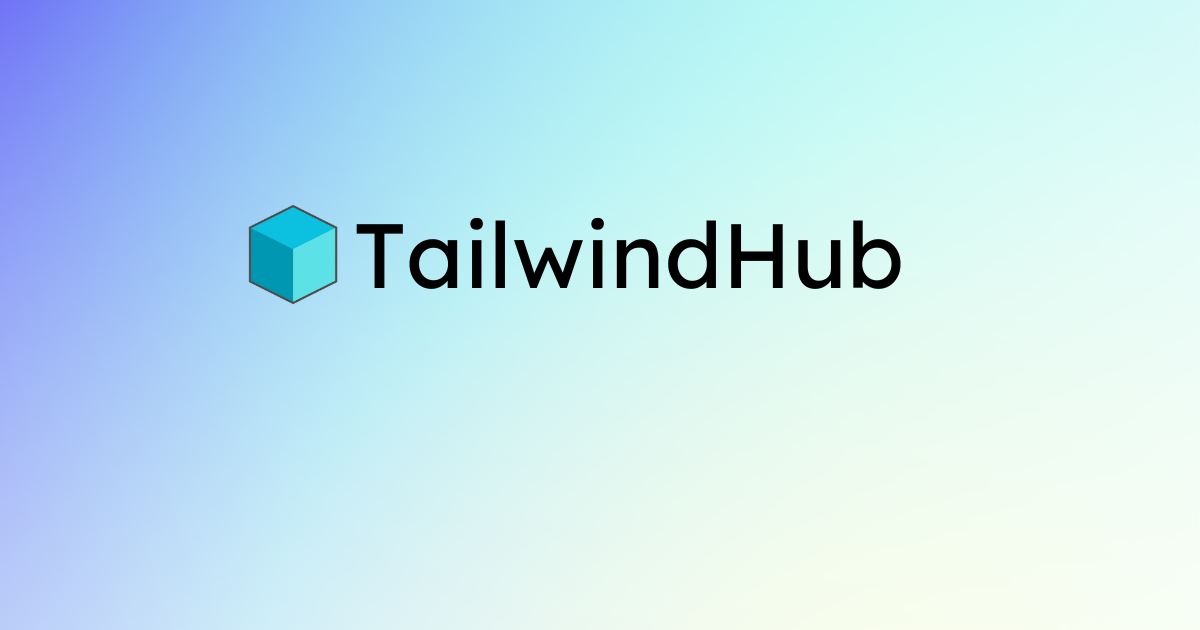
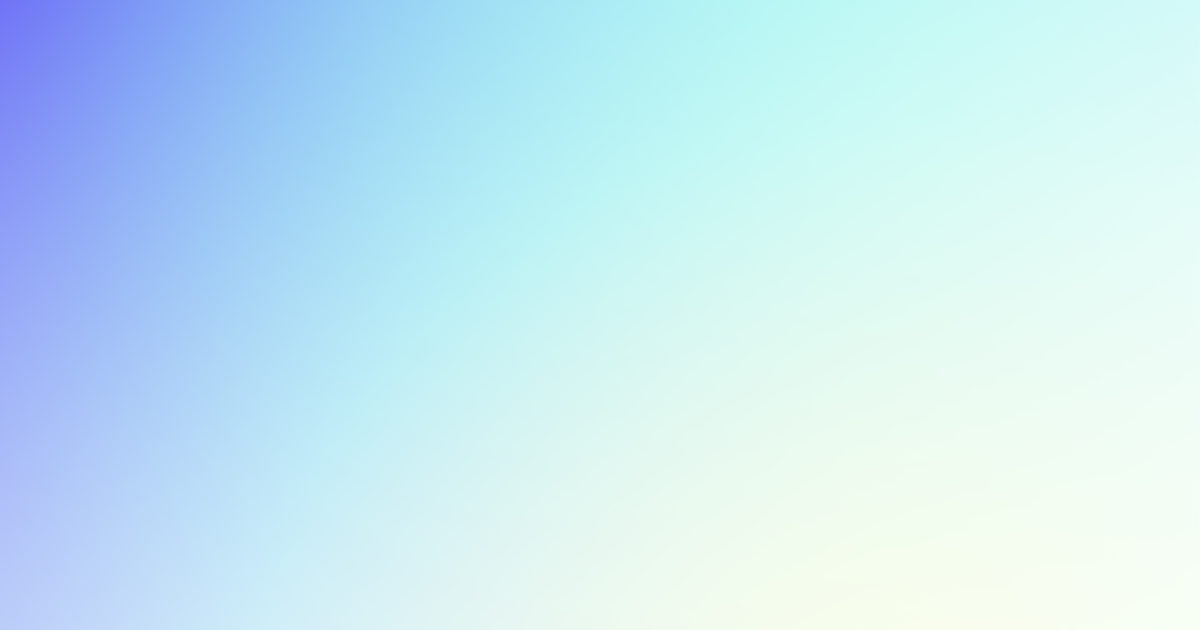
[FEAT]: accept params to create og image for components

Changed region(s): [[0.185, 0.3317, 0.7708, 0.4825]]

diff --git a/src/app/api/og/route.tsx b/src/app/api/og/route.tsx
@@ -1,7 +1,12 @@
 import { BASE_URL } from "@/constants";
+import { supabase } from "@/lib/supabase";
+import { unsluglify } from "@/utils/url-formatting";
 import { ImageResponse } from "next/server";
 
 export const runtime = "edge";
+
+const ONLY_TITLE_IMAGE_URL = `${BASE_URL}/tailwindhub-only-title.png`;
+const EMPTY_BG_IMAGE_URL = `${BASE_URL}/tailwindhub-empty.png`;
 
 export async function GET(req: Request) {
   const { searchParams } = new URL(req.url);
@@ -16,32 +21,76 @@ export async function GET(req: Request) {
     ? searchParams.get("image")?.slice(0, 100)
     : `https://github.com/${username}.png`;
 
+  // const hasType = searchParams.has("type");
+  // const typeURL = hasType ? searchParams.get("type") : null;
+
+  // const imgURL = typeURL === "component" ?  :
+
+  const componentTitle = unsluglify(searchParams.get("component") ?? "");
+
+  const { data } = await supabase
+    .from("components")
+    .select()
+    .eq("title", componentTitle)
+    .eq("author_username", username);
+
+  const componentPreviewURL = data?.[0]?.preview_img;
+
+  console.log({ BASE_URL, BG_IMAGE_URL: ONLY_TITLE_IMAGE_URL });
   return new ImageResponse(
     (
       <article tw="h-screen flex items-center justify-center text-black w-full relative">
         <img
           width={1200}
           height={630}
-          src={`${BASE_URL}/tailwindhub-empty.png`}
+          src={
+            componentPreviewURL != null
+              ? EMPTY_BG_IMAGE_URL
+              : ONLY_TITLE_IMAGE_URL
+          }
           alt=""
           className="absolute inset-0"
         />
 
-        <div tw="h-screen flex items-center justify-center text-black w-full absolute inset-0 pt-28">
-          <img
-            tw="w-20 h-20 rounded-full mt-4"
-            width="320"
-            height="320"
-            src={imageURL}
-            alt={`${username}'s profile image`}
-          />
-          <div tw="flex flex-col ml-3 justify-center">
-            <h2 tw="text-3xl sm:text-4xl font-bold tracking-tight text-left ">
-              {username}
-            </h2>
-            <span>tailwindhub.dev/u/{username}</span>
+        {componentPreviewURL != null ? (
+          <div tw="h-screen flex flex-col items-center justify-center text-black w-full absolute inset-0 bg-white">
+            {/* <h2 className="text-3xl font-bold flex gap-2 items-center">
+              {componentTitle} by{" "}
+              <img
+                tw="w-14 h-14 rounded-full"
+                width="56"
+                height="56"
+                src={imageURL}
+                alt={`${username}'s profile image`}
+              />
+              <h2 tw="font-bold tracking-tight text-left">{username}</h2>
+            </h2> */}
+
+            <img
+              width={600}
+              height={600}
+              src={componentPreviewURL}
+              alt=""
+              className="rounded-xl"
+            />
           </div>
-        </div>
+        ) : (
+          <div tw="h-screen flex items-center justify-center text-black w-full absolute inset-0 pt-28">
+            <img
+              tw="w-20 h-20 rounded-full mt-4"
+              width="320"
+              height="320"
+              src={imageURL}
+              alt={`${username}'s profile image`}
+            />
+            <div tw="flex flex-col ml-3 justify-center">
+              <h2 tw="text-3xl sm:text-4xl font-bold tracking-tight text-left ">
+                {username}
+              </h2>
+              <span>tailwindhub.dev/u/{username}</span>
+            </div>
+          </div>
+        )}
       </article>
     ),
     {
